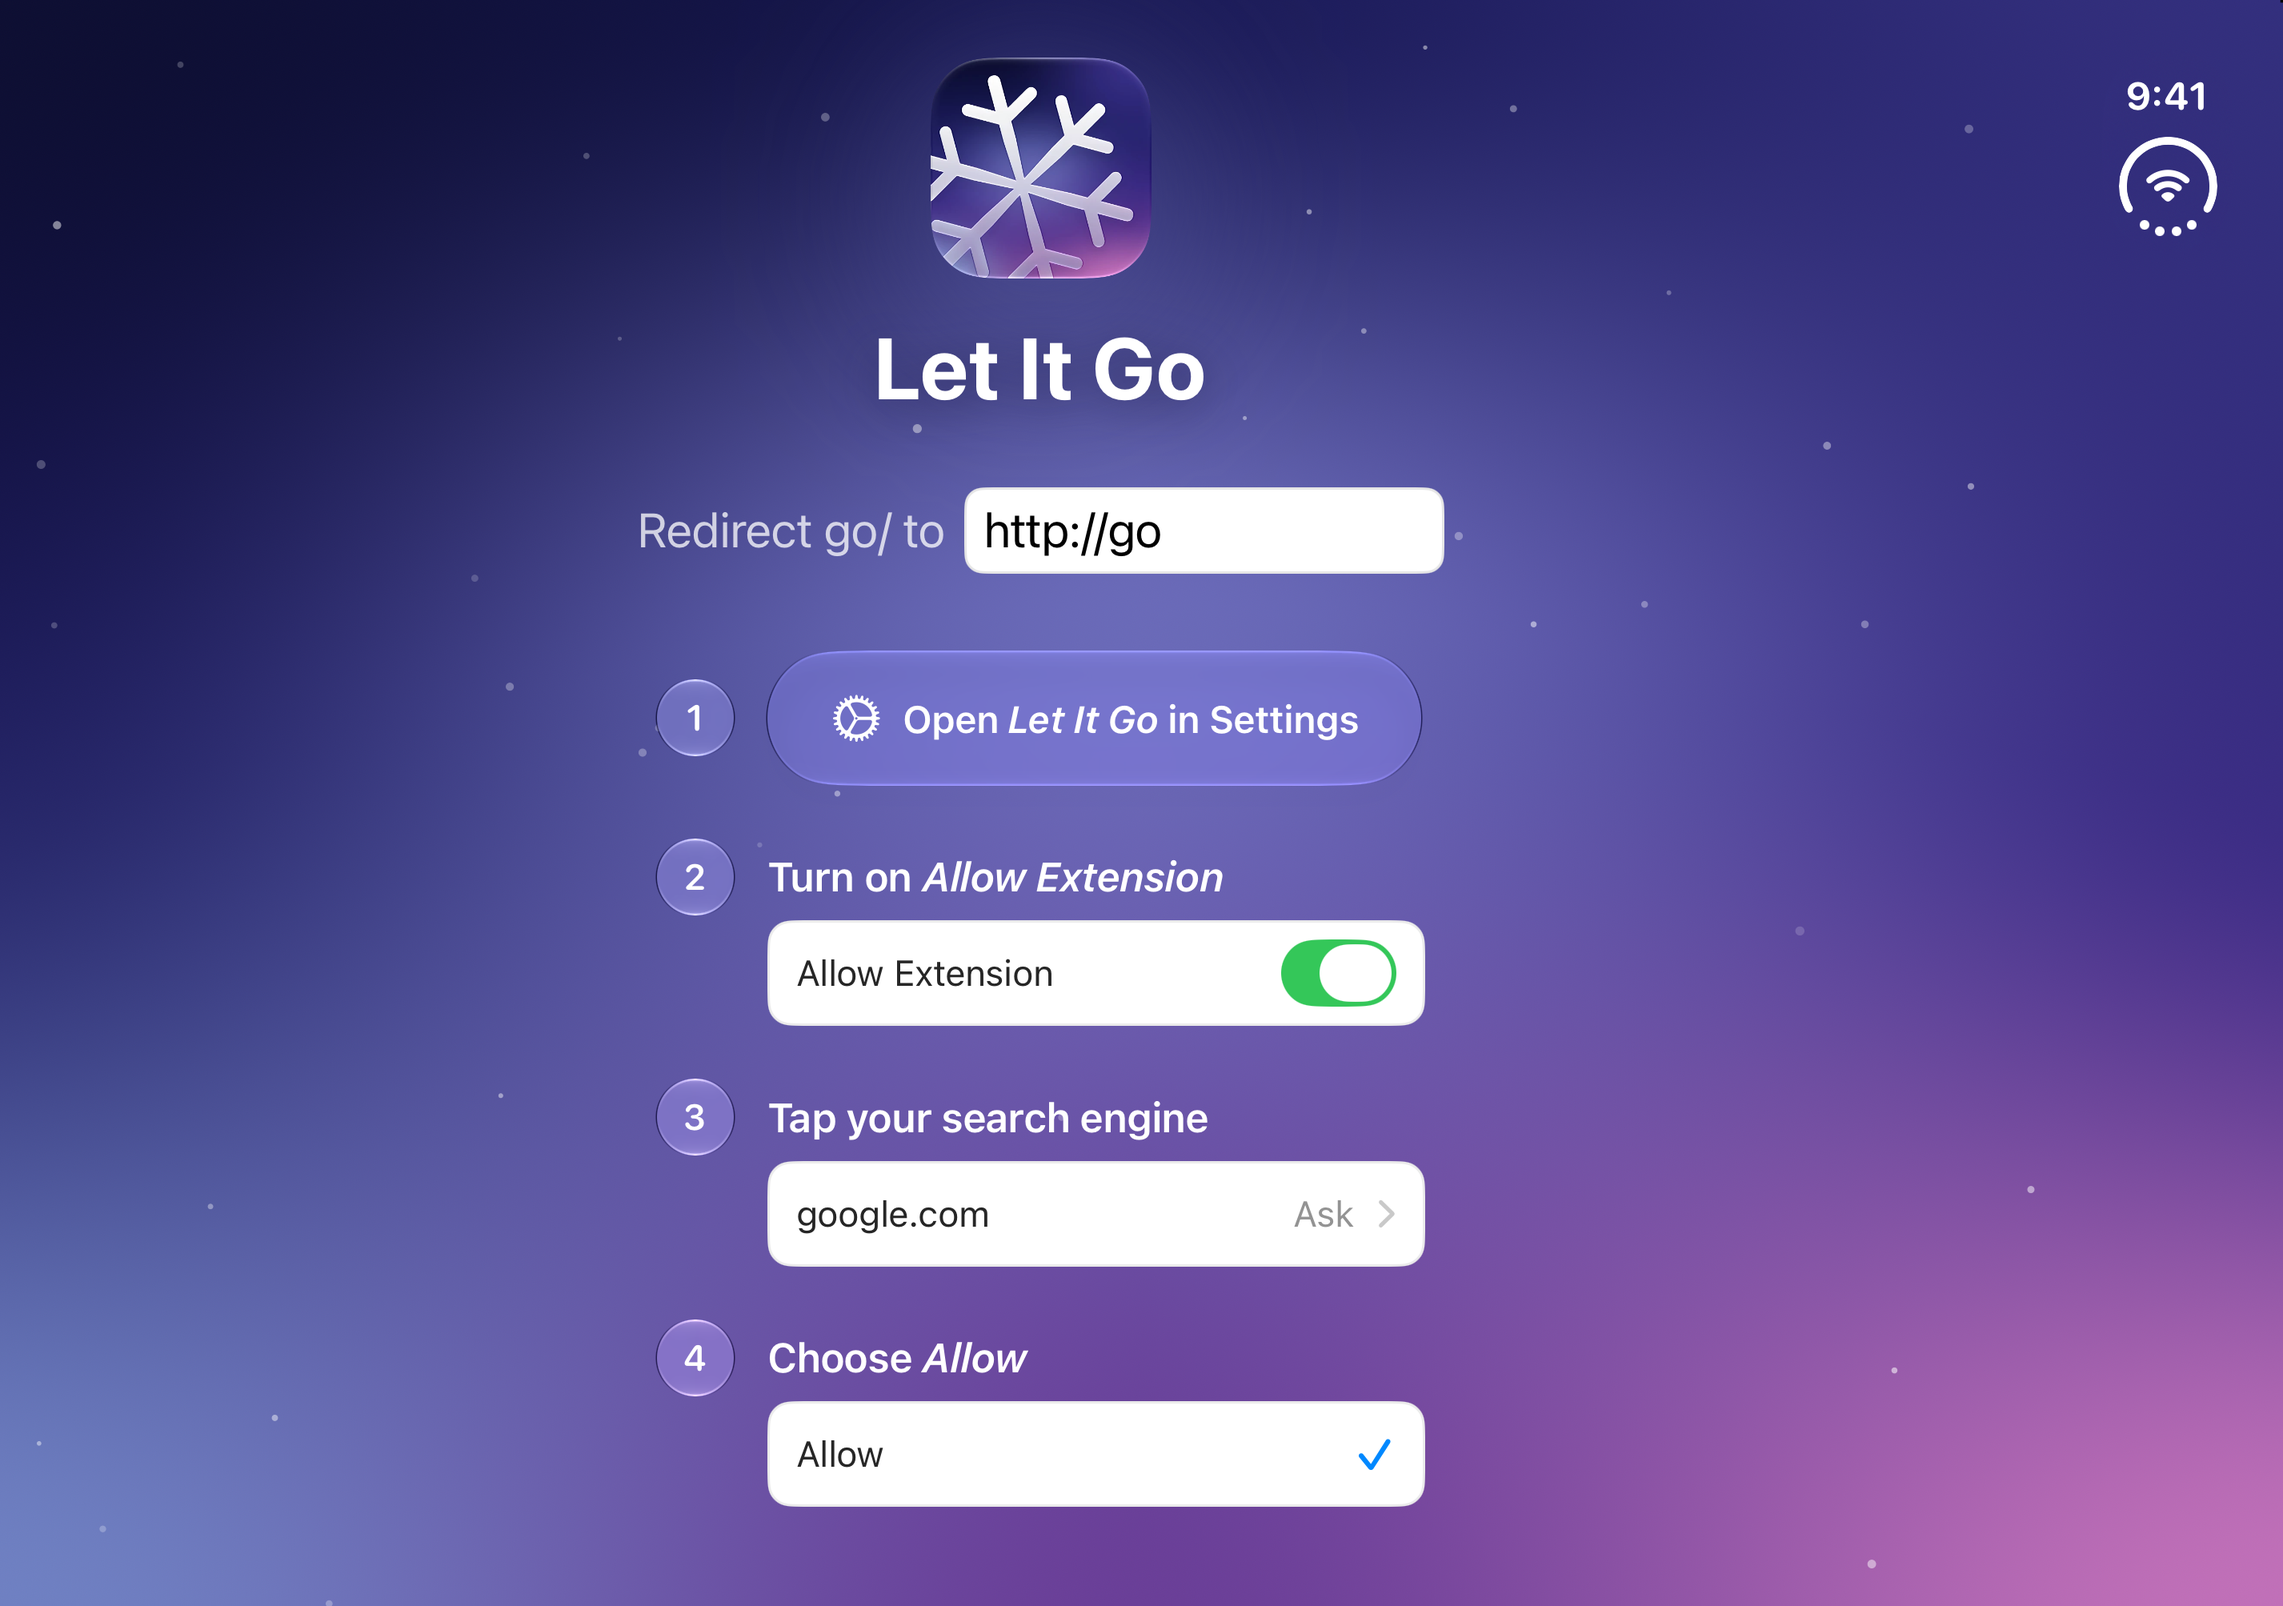
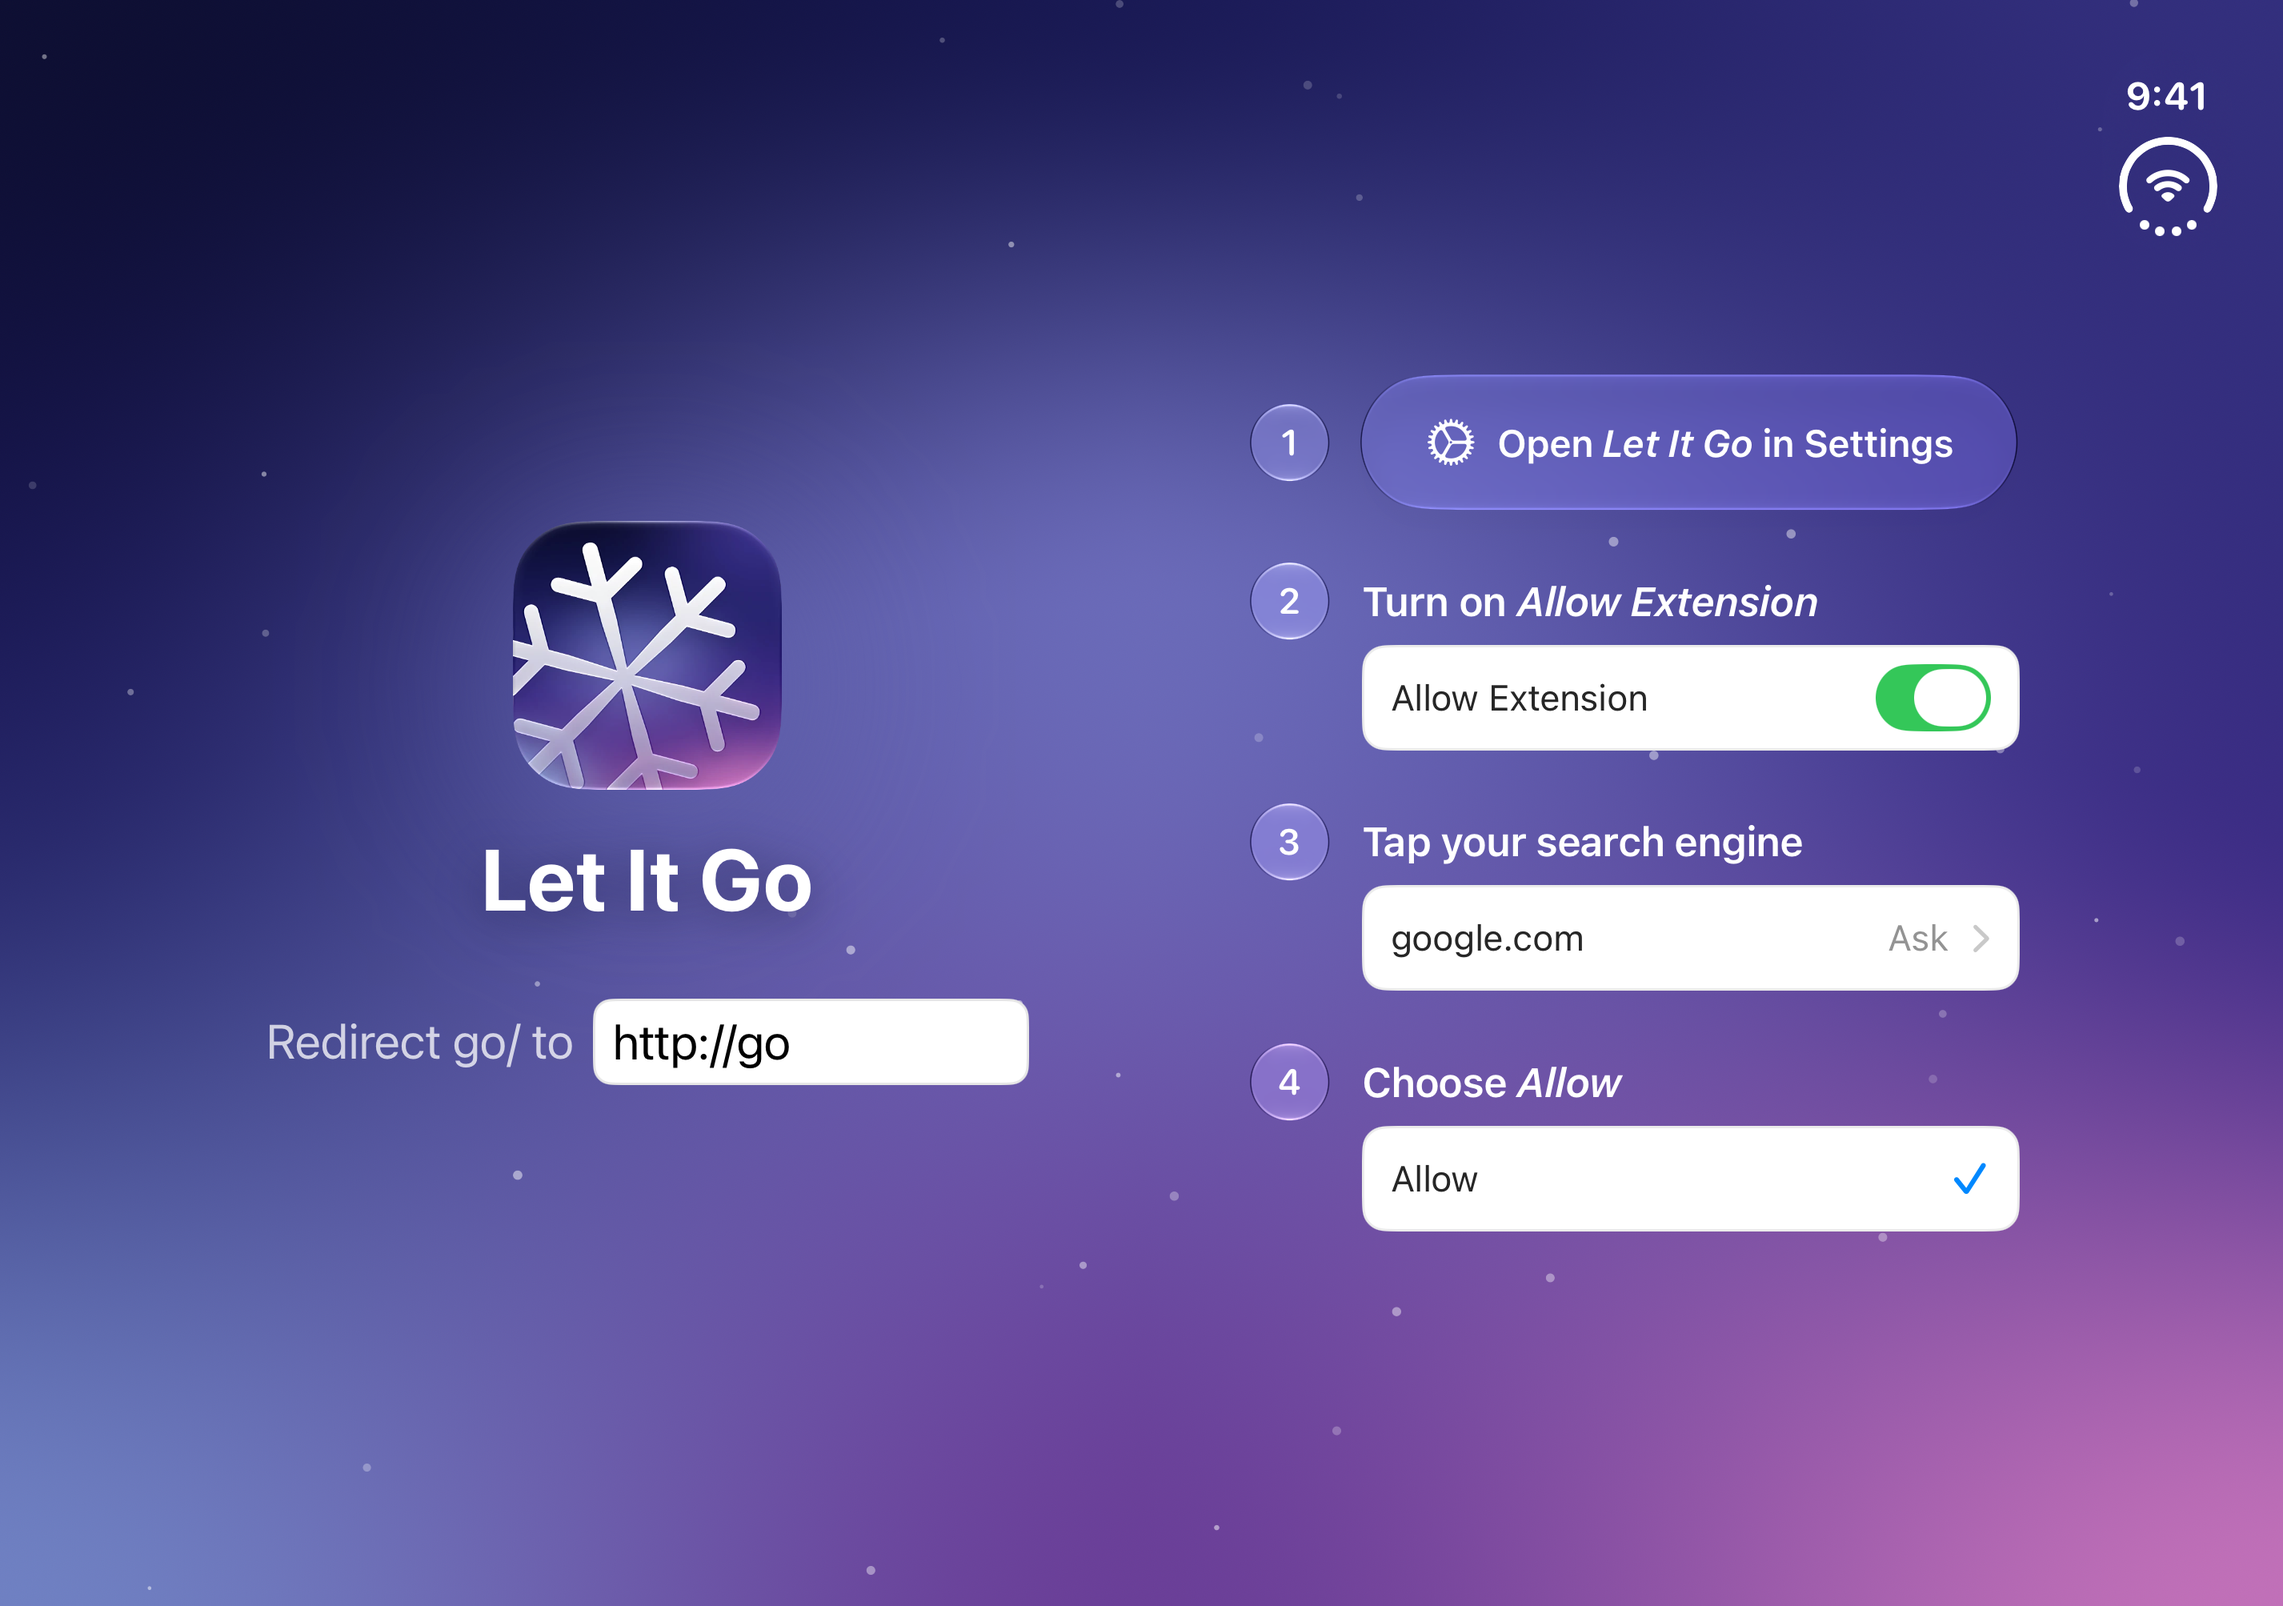
Show the iOS app in two columns on an open iPhone Duo in landscape
The header and the setup checklist sit on either side of the fold of the
inner display, centered on the display rather than in the safe area. Every
other screen, including the inner display in portrait, keeps the single
column.

diff --git a/Let It Go/Let It Go/ContentView.swift b/Let It Go/Let It Go/ContentView.swift
@@ -59,12 +59,16 @@ struct ContentView: View {
     @ViewBuilder
     private var page: some View {
         #if os(macOS)
-        content
+        content(columns: nil)
         #else
         // The checklist doesn't fit smaller iPhones, or iPads in landscape split view.
         GeometryReader { proxy in
+            let columns = Columns(besideFoldIn: proxy)
             ScrollView {
-                content
+                content(columns: columns)
+                    .alignmentGuide(VerticalAlignment.center) { dimensions in
+                        columns?.centerGuide(for: dimensions, in: proxy.size.height) ?? dimensions[VerticalAlignment.center]
+                    }
                     .frame(maxWidth: .infinity, minHeight: proxy.size.height)
             }
             .scrollBounceBehavior(.basedOnSize)
@@ -73,29 +77,38 @@ struct ContentView: View {
         #endif
     }
 
-    private var content: some View {
-        VStack(spacing: 0) {
-            Spacer(minLength: 24)
+    /// One column, or the header and the checklist side by side when `columns`
+    /// says where. The same views either way, so an edit of the redirect target
+    /// survives opening an iPhone Duo or turning it around.
+    private func content(columns: Columns?) -> some View {
+        let layout = columns.map { AnyLayout(HStackLayout(spacing: $0.gap)) } ?? AnyLayout(VStackLayout(spacing: 0))
+        let iconSize = columns == nil ? Self.iconSize : Self.columnsIconSize
 
-            AppIcon()
-                .frame(width: Self.iconSize, height: Self.iconSize)
-                .shadow(color: .indigoGlow.opacity(0.6), radius: 40, y: 12)
+        return layout {
+            if columns == nil { Spacer(minLength: 24) }
 
-            VStack(spacing: 28) {
-                Text("Let It Go")
-                    .font(.system(size: 36, weight: .bold))
-                    .shadow(color: Color(hex: 0x0E0F33).opacity(0.55), radius: 10, y: 3)
+            VStack(spacing: 0) {
+                AppIcon()
+                    .frame(width: iconSize, height: iconSize)
+                    .shadow(color: .indigoGlow.opacity(0.6), radius: 40, y: 12)
 
-                HStack(spacing: 8) {
-                    Text("Redirect go/ to")
-                        .foregroundStyle(.white.opacity(0.75))
-                    RedirectTargetField(value: $redirectBase)
+                VStack(spacing: 28) {
+                    Text("Let It Go")
+                        .font(.system(size: 36, weight: .bold))
+                        .shadow(color: Color(hex: 0x0E0F33).opacity(0.55), radius: 10, y: 3)
+
+                    HStack(spacing: 8) {
+                        Text("Redirect go/ to")
+                            .foregroundStyle(.white.opacity(0.75))
+                        RedirectTargetField(value: $redirectBase)
+                    }
+                    .font(.title3)
                 }
-                .font(.title3)
+                .padding(.top, 16)
             }
-            .padding(.top, 16)
+            .frame(width: columns?.width)
 
-            Spacer(minLength: 32)
+            if columns == nil { Spacer(minLength: 32) }
 
             GlassContainer(spacing: 12) {
                 VStack(alignment: .leading, spacing: 22) {
@@ -108,10 +121,14 @@ struct ContentView: View {
             // Narrower on small iPhones.
             .frame(maxWidth: 320, alignment: .leading)
             #endif
+            .frame(width: columns?.width)
 
-            Spacer(minLength: 28)
+            if columns == nil { Spacer(minLength: 28) }
         }
-        .padding(.horizontal, 32)
+        .padding(.horizontal, columns == nil ? 32 : 0)
+        .padding(.leading, columns?.leading ?? 0)
+        .padding(.trailing, columns?.trailing ?? 0)
+        .padding(.vertical, columns == nil ? 0 : Columns.margin)
     }
 
     #if os(macOS)
@@ -120,6 +137,9 @@ struct ContentView: View {
     /// The Mac icon has a transparent margin around its artwork; this one doesn't.
     private static let iconSize: CGFloat = 92
     #endif
+
+    /// There's room for a larger icon when it has a column to itself.
+    private static let columnsIconSize: CGFloat = 112
 
     /// Mirrors Safari Settings on the Mac, and the extension's page in the
     /// Settings app on iOS, where the steps happen.
@@ -257,6 +277,60 @@ struct ContentView: View {
         openedSettings = true
         openSafariSettings()
     }
+}
+
+/// Where the header and the checklist go when they sit side by side: one on each
+/// side of the fold of an iPhone Duo's inner display.
+private struct Columns {
+    /// Both columns are as wide as the narrower side of the fold, which centers
+    /// the pair on the fold rather than in the safe area: the status bar, on one
+    /// side only, makes that lopsided.
+    var width: CGFloat
+    /// The fold, kept clear between the columns.
+    var gap: CGFloat
+    var leading: CGFloat
+    var trailing: CGFloat
+    /// The middle of the fold, which is the middle of the display. The safe area's
+    /// is higher: the home indicator shortens it at the bottom only.
+    var centerY: CGFloat
+
+    /// Above and below the columns when they're taller than what's visible and
+    /// scroll.
+    static let margin: CGFloat = 24
+
+    /// Where the columns' `center` guide has to be for their middle to land on
+    /// the display's, in a frame as tall as the safe area or as they are. They
+    /// stay inside that frame: with the keyboard up, the display's middle is
+    /// behind it.
+    func centerGuide(for columns: ViewDimensions, in safeHeight: CGFloat) -> CGFloat {
+        let frameHeight = max(safeHeight, columns.height)
+        let top = min(max(centerY - columns.height / 2, 0), frameHeight - columns.height)
+        return frameHeight / 2 - top
+    }
+
+    #if os(iOS)
+    /// `nil` unless a fold runs from the top to the bottom of the view, which is
+    /// only on the inner display of an iPhone Duo held in landscape. Everywhere
+    /// else, including that display in portrait, there's a single column.
+    init?(besideFoldIn proxy: GeometryProxy) {
+        guard #available(iOS 27.1, *), proxy.size.width > proxy.size.height else { return nil }
+        // The fold is inactive while the device lies fully open, and still where
+        // the columns should part.
+        let folds = proxy.reservedRegions(kind: .division, options: .includeInactive).map(\.frame)
+        guard let fold = folds.first(where: { $0.height > $0.width }) else { return nil }
+
+        let width = min(fold.minX, proxy.size.width - fold.maxX)
+        guard width >= Self.minimumWidth else { return nil }
+        self.width = width
+        gap = fold.width
+        leading = fold.minX - width
+        trailing = proxy.size.width - fold.maxX - width
+        centerY = fold.midY
+    }
+
+    /// The checklist, at its full width.
+    private static let minimumWidth: CGFloat = 320
+    #endif
 }
 
 /// The redirect target. Return or clicking away saves it, Escape (on the Mac)
